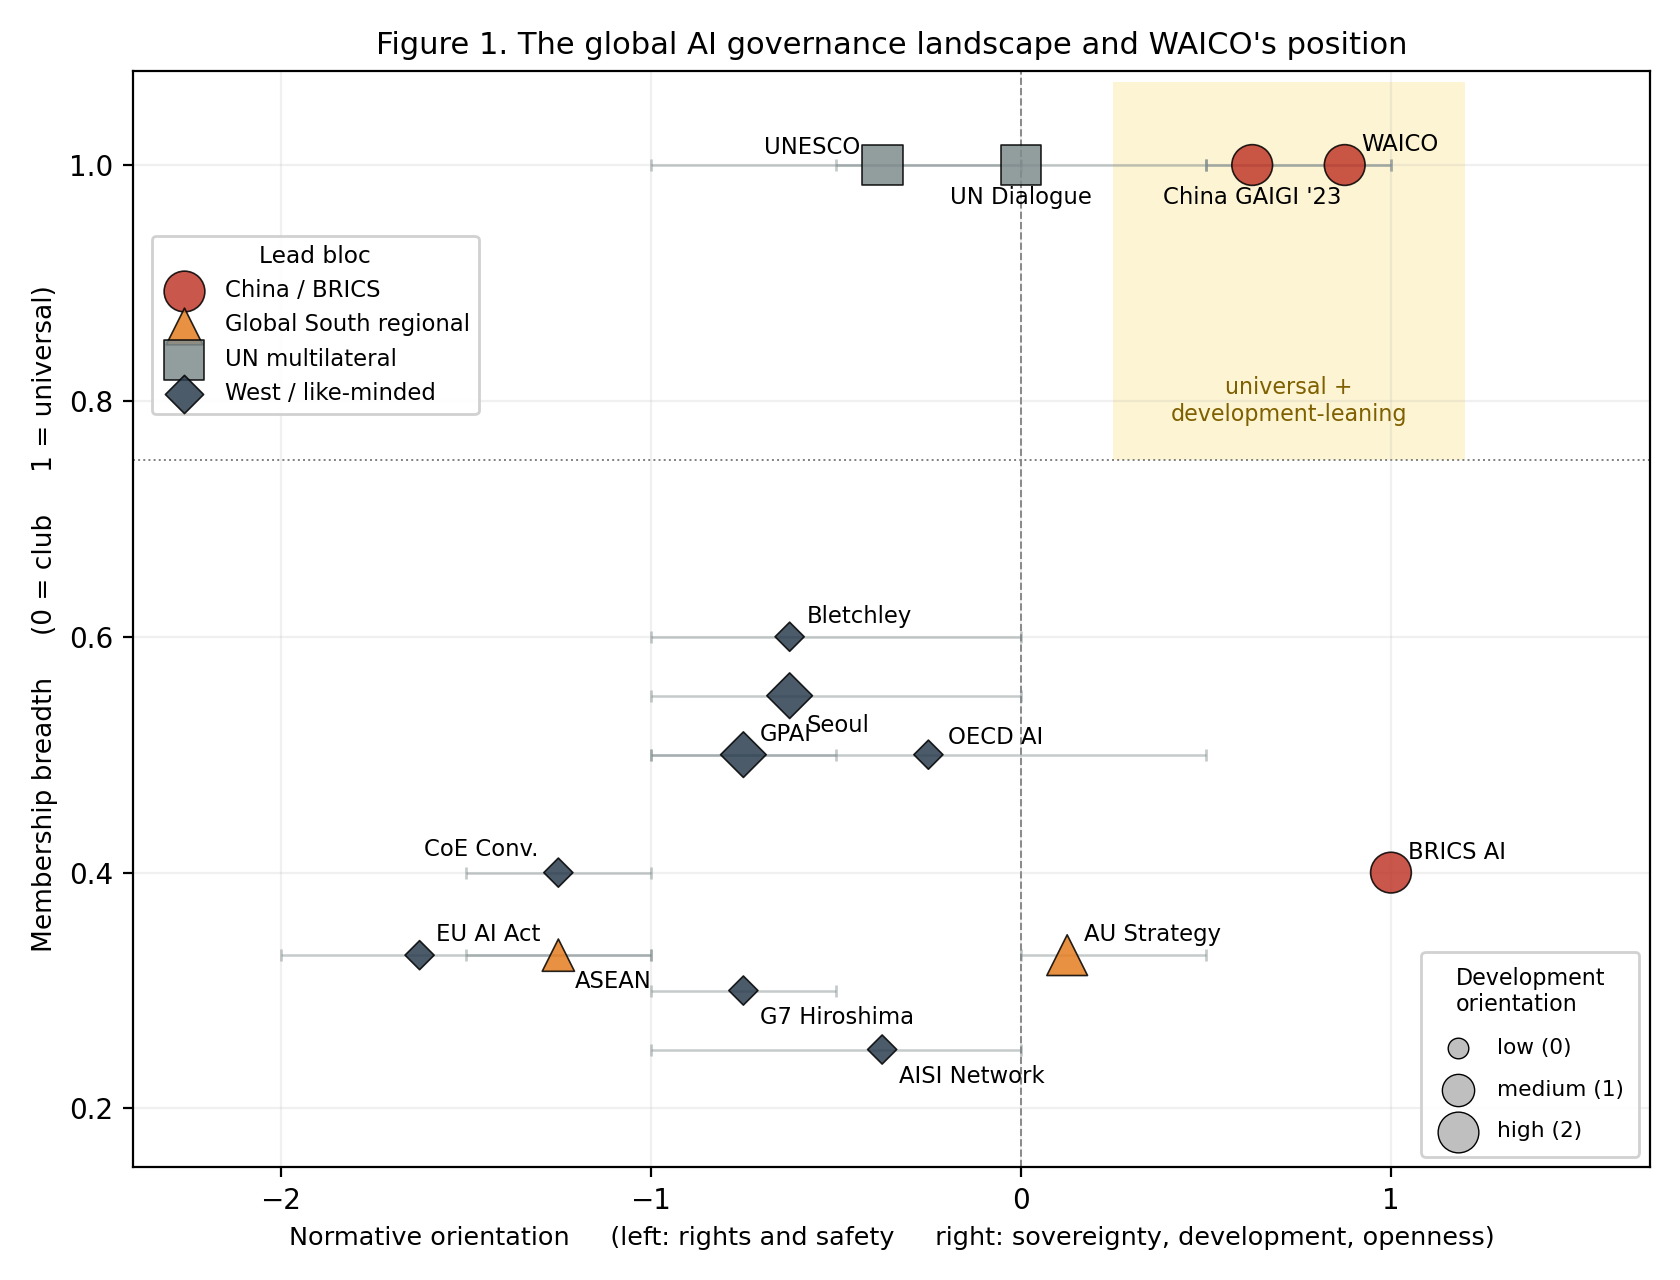
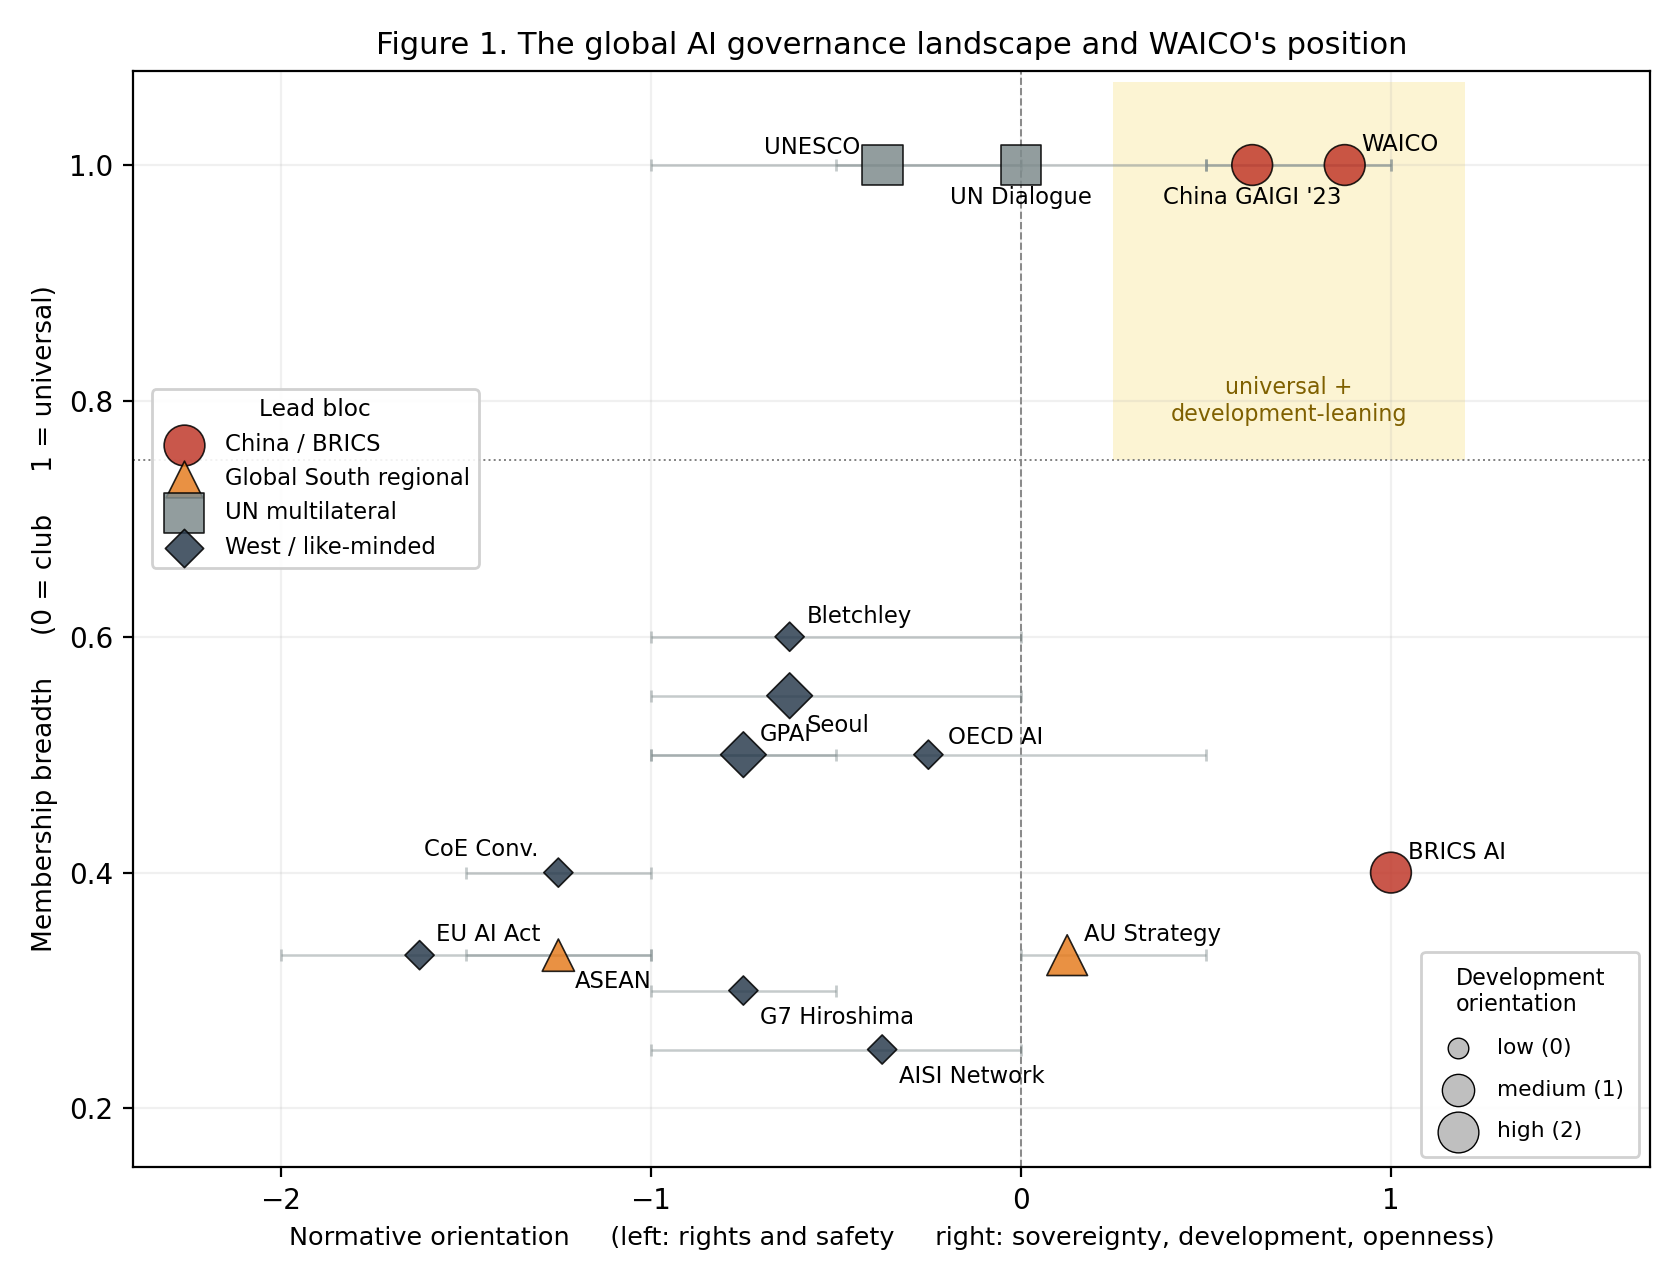
Reposition Figure 1 legend into empty region

Changed region(s): [[0.0929, 0.1875, 0.2786, 0.4688]]

diff --git a/analysis.py b/analysis.py
@@ -154,7 +154,7 @@ ax.set_yticks([0.2, 0.4, 0.6, 0.8, 1.0])
 ax.grid(True, alpha=0.18)
 
 # two legends: lead bloc (colors/markers) and development orientation (marker size)
-leg1 = ax.legend(loc="upper left", bbox_to_anchor=(0.005, 0.86), fontsize=8.2,
+leg1 = ax.legend(loc="upper left", bbox_to_anchor=(0.005, 0.72), fontsize=8.2,
                  framealpha=0.9, title="Lead bloc", title_fontsize=8.4)
 ax.add_artist(leg1)
 size_handles = [ax.scatter([], [], s=55 + dv * 80, marker="o", facecolor="0.75",